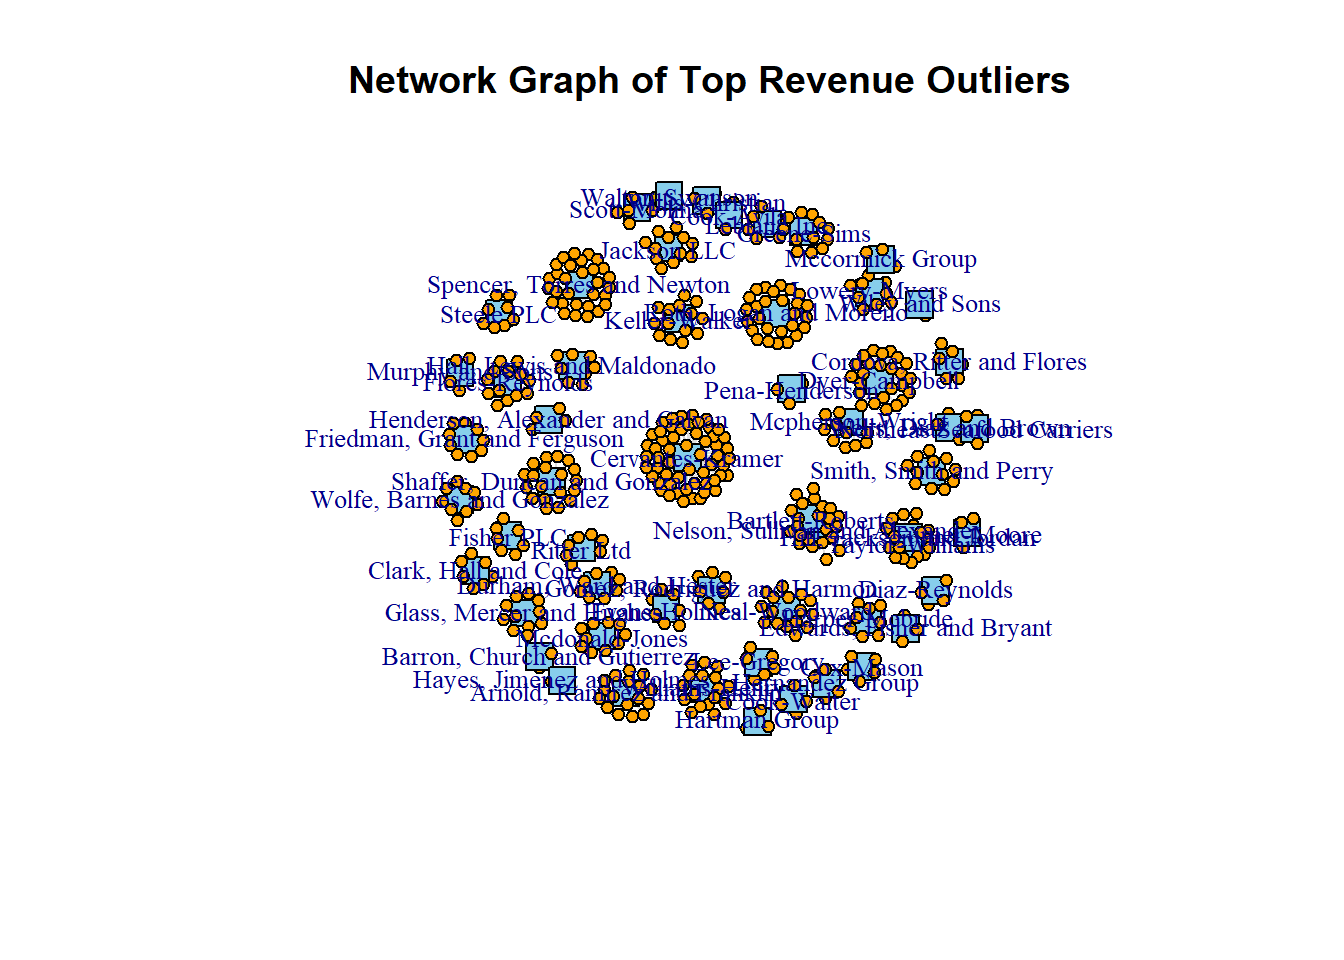
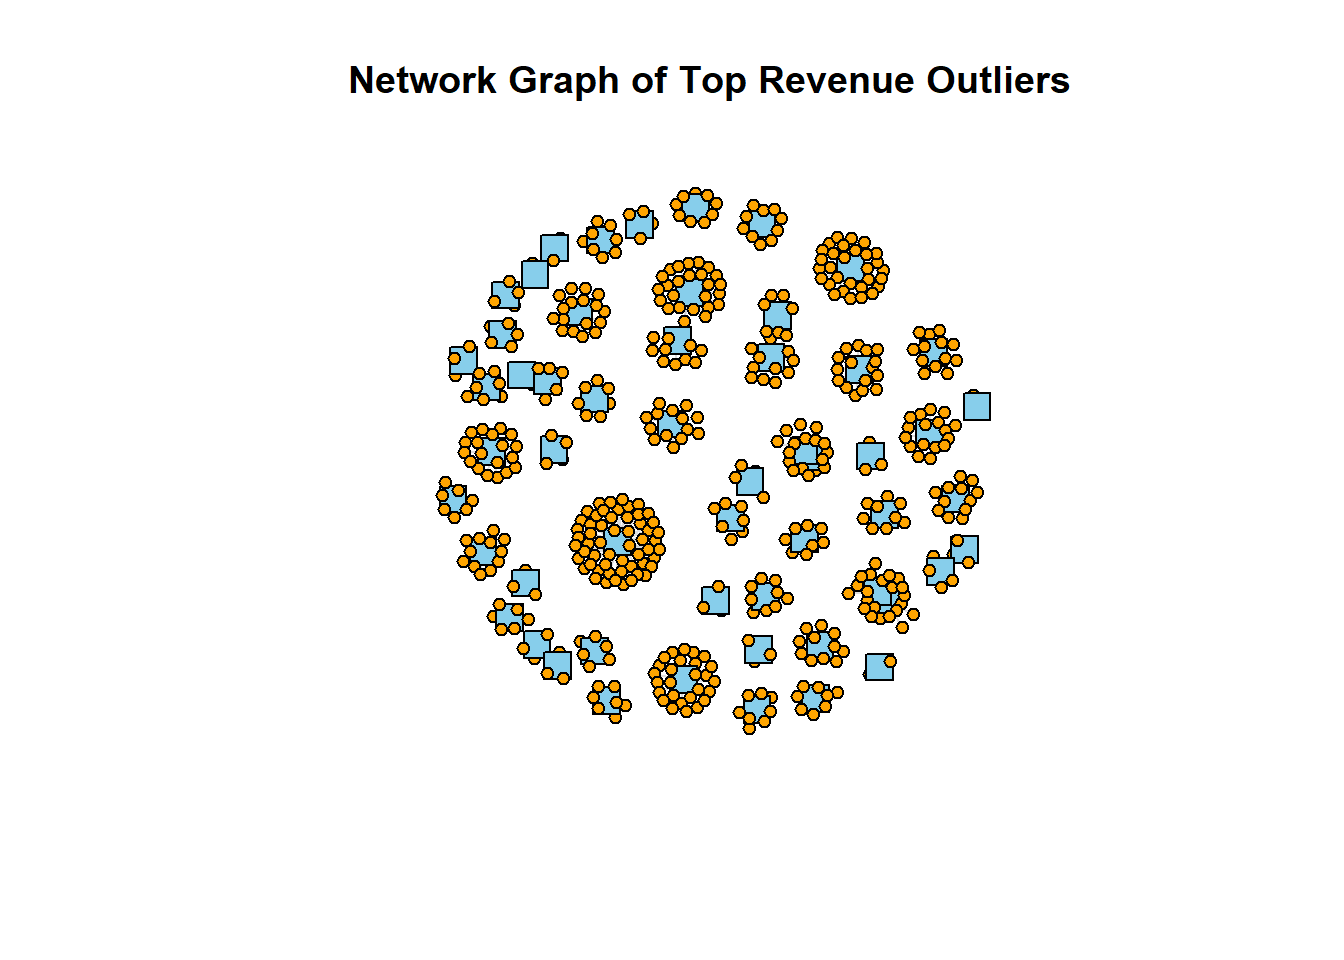
submit

Changed region(s): [[0.2188, 0.1875, 0.8438, 0.7812]]

diff --git a/_site/Take-home_Ex/Take-home_Ex03/Take-home_Ex03.html b/_site/Take-home_Ex/Take-home_Ex03/Take-home_Ex03.html
@@ -221,16 +221,22 @@ pre > code.sourceCode > span > a:first-child::before { text-decoration: underlin
 <div class="cell">
 <div class="sourceCode cell-code" id="cb1"><pre class="sourceCode r code-with-copy"><code class="sourceCode r"><span id="cb1-1"><a href="#cb1-1" aria-hidden="true" tabindex="-1"></a>pacman<span class="sc">::</span><span class="fu">p_load</span>(ggraph,dendextend,tidygraph,jsonlite,dplyr,lubridate,igraph,ggplot2,gridExtra)</span></code><button title="Copy to Clipboard" class="code-copy-button"><i class="bi"></i></button></pre></div>
 </div>
-<p>*<strong># Load JSON data</strong></p>
+<hr>
+<p>Load JSON data</p>
+<hr>
 <div class="cell">
 <div class="sourceCode cell-code" id="cb2"><pre class="sourceCode r code-with-copy"><code class="sourceCode r"><span id="cb2-1"><a href="#cb2-1" aria-hidden="true" tabindex="-1"></a>json_data <span class="ot">&lt;-</span> <span class="fu">fromJSON</span>(<span class="st">'data/MC3/mc3.json'</span>)</span></code><button title="Copy to Clipboard" class="code-copy-button"><i class="bi"></i></button></pre></div>
 </div>
-<p><strong># Extract the nodes and edges</strong></p>
+<hr>
+<p>Extract the nodes and edges</p>
+<hr>
 <div class="cell">
 <div class="sourceCode cell-code" id="cb3"><pre class="sourceCode r code-with-copy"><code class="sourceCode r"><span id="cb3-1"><a href="#cb3-1" aria-hidden="true" tabindex="-1"></a>nodes <span class="ot">&lt;-</span> json_data<span class="sc">$</span>nodes</span>
 <span id="cb3-2"><a href="#cb3-2" aria-hidden="true" tabindex="-1"></a>edges <span class="ot">&lt;-</span> json_data<span class="sc">$</span>links</span></code><button title="Copy to Clipboard" class="code-copy-button"><i class="bi"></i></button></pre></div>
 </div>
-<p><strong># Data Processing</strong></p>
+<hr>
+<p>Data Processing</p>
+<hr>
 <div class="cell">
 <div class="sourceCode cell-code" id="cb4"><pre class="sourceCode r code-with-copy"><code class="sourceCode r"><span id="cb4-1"><a href="#cb4-1" aria-hidden="true" tabindex="-1"></a><span class="co"># Ensure 'id' columns and edge 'source'/'target' columns are character type</span></span>
 <span id="cb4-2"><a href="#cb4-2" aria-hidden="true" tabindex="-1"></a>nodes<span class="sc">$</span>id <span class="ot">&lt;-</span> <span class="fu">as.character</span>(nodes<span class="sc">$</span>id)</span>
@@ -246,6 +252,8 @@ pre > code.sourceCode > span > a:first-child::before { text-decoration: underlin
 <span id="cb4-12"><a href="#cb4-12" aria-hidden="true" tabindex="-1"></a>edges<span class="sc">$</span><span class="st">`</span><span class="at">start_date</span><span class="st">`</span> <span class="ot">&lt;-</span> <span class="fu">as.Date</span>(edges<span class="sc">$</span><span class="st">`</span><span class="at">start_date</span><span class="st">`</span>, <span class="at">format =</span> <span class="st">"%Y-%m-%d"</span>)</span>
 <span id="cb4-13"><a href="#cb4-13" aria-hidden="true" tabindex="-1"></a>edges<span class="sc">$</span><span class="st">`</span><span class="at">end_date</span><span class="st">`</span> <span class="ot">&lt;-</span> <span class="fu">as.Date</span>(edges<span class="sc">$</span><span class="st">`</span><span class="at">end_date</span><span class="st">`</span>, <span class="at">format =</span> <span class="st">"%Y-%m-%d"</span>)</span></code><button title="Copy to Clipboard" class="code-copy-button"><i class="bi"></i></button></pre></div>
 </div>
+<hr>
+<hr>
 <p><strong><em>Problem Statement 1:</em></strong> Identify the network associated with SouthSeafood Express Corp and visualize how this network and competing businesses change as a result of their illegal fishing behavior.</p>
 <p><strong><em>Analysis</em></strong></p>
 <hr>
@@ -255,60 +263,64 @@ pre > code.sourceCode > span > a:first-child::before { text-decoration: underlin
 <p><strong><em>Problem Statement 3:</em></strong> Are there any other suspicious transactions that may be related to illegal fishing?</p>
 <hr>
 <p>Data Processing</p>
-<div class="cell">
-<div class="sourceCode cell-code" id="cb5"><pre class="sourceCode r code-with-copy"><code class="sourceCode r"><span id="cb5-1"><a href="#cb5-1" aria-hidden="true" tabindex="-1"></a><span class="co"># Convert nodes to a data frame for filtering purposes</span></span>
-<span id="cb5-2"><a href="#cb5-2" aria-hidden="true" tabindex="-1"></a>nodes_df <span class="ot">&lt;-</span> <span class="fu">as.data.frame</span>(nodes)</span>
-<span id="cb5-3"><a href="#cb5-3" aria-hidden="true" tabindex="-1"></a></span>
-<span id="cb5-4"><a href="#cb5-4" aria-hidden="true" tabindex="-1"></a><span class="co"># Filter the dataset for companies involved in fishing, sea food, and seafood</span></span>
-<span id="cb5-5"><a href="#cb5-5" aria-hidden="true" tabindex="-1"></a>fishing_companies <span class="ot">&lt;-</span> nodes_df <span class="sc">%&gt;%</span></span>
-<span id="cb5-6"><a href="#cb5-6" aria-hidden="true" tabindex="-1"></a>  <span class="fu">filter</span>(<span class="fu">grepl</span>(<span class="st">"fish|sea food|seafood"</span>, TradeDescription, <span class="at">ignore.case =</span> <span class="cn">TRUE</span>))</span>
-<span id="cb5-7"><a href="#cb5-7" aria-hidden="true" tabindex="-1"></a></span>
-<span id="cb5-8"><a href="#cb5-8" aria-hidden="true" tabindex="-1"></a><span class="co"># Remove rows with missing or non-finite revenue values</span></span>
-<span id="cb5-9"><a href="#cb5-9" aria-hidden="true" tabindex="-1"></a>fishing_companies <span class="ot">&lt;-</span> fishing_companies <span class="sc">%&gt;%</span></span>
-<span id="cb5-10"><a href="#cb5-10" aria-hidden="true" tabindex="-1"></a>  <span class="fu">filter</span>(<span class="sc">!</span><span class="fu">is.na</span>(revenue) <span class="sc">&amp;</span> <span class="fu">is.finite</span>(revenue))</span>
-<span id="cb5-11"><a href="#cb5-11" aria-hidden="true" tabindex="-1"></a></span>
-<span id="cb5-12"><a href="#cb5-12" aria-hidden="true" tabindex="-1"></a><span class="co"># Identify top outliers by revenue (95th percentile)</span></span>
-<span id="cb5-13"><a href="#cb5-13" aria-hidden="true" tabindex="-1"></a>top_outliers <span class="ot">&lt;-</span> fishing_companies <span class="sc">%&gt;%</span></span>
-<span id="cb5-14"><a href="#cb5-14" aria-hidden="true" tabindex="-1"></a>  <span class="fu">filter</span>(revenue <span class="sc">&gt;</span> <span class="fu">quantile</span>(revenue, <span class="fl">0.95</span>, <span class="at">na.rm =</span> <span class="cn">TRUE</span>))</span>
-<span id="cb5-15"><a href="#cb5-15" aria-hidden="true" tabindex="-1"></a></span>
-<span id="cb5-16"><a href="#cb5-16" aria-hidden="true" tabindex="-1"></a><span class="co"># Extract the IDs of the top outliers</span></span>
-<span id="cb5-17"><a href="#cb5-17" aria-hidden="true" tabindex="-1"></a>top_outlier_ids <span class="ot">&lt;-</span> top_outliers<span class="sc">$</span>id</span>
-<span id="cb5-18"><a href="#cb5-18" aria-hidden="true" tabindex="-1"></a></span>
-<span id="cb5-19"><a href="#cb5-19" aria-hidden="true" tabindex="-1"></a><span class="co"># Convert edges to a data frame for filtering purposes</span></span>
-<span id="cb5-20"><a href="#cb5-20" aria-hidden="true" tabindex="-1"></a>edges_df <span class="ot">&lt;-</span> <span class="fu">as.data.frame</span>(edges)</span>
-<span id="cb5-21"><a href="#cb5-21" aria-hidden="true" tabindex="-1"></a></span>
-<span id="cb5-22"><a href="#cb5-22" aria-hidden="true" tabindex="-1"></a><span class="co"># Filter edges to include only those related to top outliers</span></span>
-<span id="cb5-23"><a href="#cb5-23" aria-hidden="true" tabindex="-1"></a>related_edges <span class="ot">&lt;-</span> edges_df <span class="sc">%&gt;%</span></span>
-<span id="cb5-24"><a href="#cb5-24" aria-hidden="true" tabindex="-1"></a>  <span class="fu">filter</span>(source <span class="sc">%in%</span> top_outlier_ids <span class="sc">|</span> target <span class="sc">%in%</span> top_outlier_ids)</span>
-<span id="cb5-25"><a href="#cb5-25" aria-hidden="true" tabindex="-1"></a></span>
-<span id="cb5-26"><a href="#cb5-26" aria-hidden="true" tabindex="-1"></a><span class="co"># Create an edge list for igraph</span></span>
-<span id="cb5-27"><a href="#cb5-27" aria-hidden="true" tabindex="-1"></a>edge_list <span class="ot">&lt;-</span> <span class="fu">as.matrix</span>(related_edges[, <span class="fu">c</span>(<span class="st">"source"</span>, <span class="st">"target"</span>)])</span></code><button title="Copy to Clipboard" class="code-copy-button"><i class="bi"></i></button></pre></div>
-</div>
-<hr>
+<table class="table">
+<colgroup>
+<col style="width: 5%">
+</colgroup>
+<tbody>
+<tr class="odd">
+<td>::: {.cell}</td>
+</tr>
+<tr class="even">
+<td>```{.r .cell-code} # Convert nodes to a data frame for filtering purposes nodes_df &lt;- as.data.frame(nodes)</td>
+</tr>
+<tr class="odd">
+<td># Filter the dataset for companies involved in fishing, sea food, and seafood fishing_companies &lt;- nodes_df %&gt;% filter(grepl(“fish|sea food|seafood”, TradeDescription, ignore.case = TRUE))</td>
+</tr>
+<tr class="even">
+<td># Remove rows with missing or non-finite revenue values fishing_companies &lt;- fishing_companies %&gt;% filter(!is.na(revenue) &amp; is.finite(revenue))</td>
+</tr>
+<tr class="odd">
+<td># Identify top outliers by revenue (95th percentile) top_outliers &lt;- fishing_companies %&gt;% filter(revenue &gt; quantile(revenue, 0.95, na.rm = TRUE))</td>
+</tr>
+<tr class="even">
+<td># Extract the IDs of the top outliers top_outlier_ids &lt;- top_outliers$id</td>
+</tr>
+<tr class="odd">
+<td># Convert edges to a data frame for filtering purposes edges_df &lt;- as.data.frame(edges)</td>
+</tr>
+<tr class="even">
+<td># Filter edges to include only those related to top outliers related_edges &lt;- edges_df %&gt;% filter(source %in% top_outlier_ids | target %in% top_outlier_ids)</td>
+</tr>
+<tr class="odd">
+<td># Create an edge list for igraph edge_list &lt;- as.matrix(related_edges[, c(“source”, “target”)]) ``` :::</td>
+</tr>
+</tbody>
+</table>
 <p>Create graph</p>
 <hr>
 <div class="cell">
-<div class="sourceCode cell-code" id="cb6"><pre class="sourceCode r code-with-copy"><code class="sourceCode r"><span id="cb6-1"><a href="#cb6-1" aria-hidden="true" tabindex="-1"></a><span class="co"># Create graph object</span></span>
-<span id="cb6-2"><a href="#cb6-2" aria-hidden="true" tabindex="-1"></a>g <span class="ot">&lt;-</span> <span class="fu">graph_from_edgelist</span>(edge_list, <span class="at">directed =</span> <span class="cn">FALSE</span>)</span>
-<span id="cb6-3"><a href="#cb6-3" aria-hidden="true" tabindex="-1"></a></span>
-<span id="cb6-4"><a href="#cb6-4" aria-hidden="true" tabindex="-1"></a><span class="co"># Add vertex attributes for revenue and country</span></span>
-<span id="cb6-5"><a href="#cb6-5" aria-hidden="true" tabindex="-1"></a><span class="fu">V</span>(g)<span class="sc">$</span>revenue <span class="ot">&lt;-</span> <span class="fu">ifelse</span>(<span class="fu">V</span>(g)<span class="sc">$</span>name <span class="sc">%in%</span> top_outliers<span class="sc">$</span>id, top_outliers<span class="sc">$</span>revenue[<span class="fu">match</span>(<span class="fu">V</span>(g)<span class="sc">$</span>name, top_outliers<span class="sc">$</span>id)], <span class="cn">NA</span>)</span>
-<span id="cb6-6"><a href="#cb6-6" aria-hidden="true" tabindex="-1"></a><span class="fu">V</span>(g)<span class="sc">$</span>country <span class="ot">&lt;-</span> <span class="fu">ifelse</span>(<span class="fu">V</span>(g)<span class="sc">$</span>name <span class="sc">%in%</span> top_outliers<span class="sc">$</span>id, top_outliers<span class="sc">$</span>country[<span class="fu">match</span>(<span class="fu">V</span>(g)<span class="sc">$</span>name, top_outliers<span class="sc">$</span>id)], <span class="cn">NA</span>)</span>
-<span id="cb6-7"><a href="#cb6-7" aria-hidden="true" tabindex="-1"></a></span>
-<span id="cb6-8"><a href="#cb6-8" aria-hidden="true" tabindex="-1"></a><span class="co"># Set node sizes and colors</span></span>
-<span id="cb6-9"><a href="#cb6-9" aria-hidden="true" tabindex="-1"></a><span class="fu">V</span>(g)<span class="sc">$</span>size <span class="ot">&lt;-</span> <span class="fu">ifelse</span>(<span class="fu">V</span>(g)<span class="sc">$</span>name <span class="sc">%in%</span> top_outliers<span class="sc">$</span>id, <span class="dv">10</span>, <span class="dv">5</span>)  <span class="co"># Increase size for top outliers</span></span>
-<span id="cb6-10"><a href="#cb6-10" aria-hidden="true" tabindex="-1"></a><span class="fu">V</span>(g)<span class="sc">$</span>color <span class="ot">&lt;-</span> <span class="fu">ifelse</span>(<span class="fu">V</span>(g)<span class="sc">$</span>name <span class="sc">%in%</span> top_outliers<span class="sc">$</span>id, <span class="st">"skyblue"</span>, <span class="st">"orange"</span>)  <span class="co"># Different colors for top outliers</span></span>
-<span id="cb6-11"><a href="#cb6-11" aria-hidden="true" tabindex="-1"></a><span class="fu">V</span>(g)<span class="sc">$</span>shape <span class="ot">&lt;-</span> <span class="fu">ifelse</span>(<span class="fu">V</span>(g)<span class="sc">$</span>name <span class="sc">%in%</span> top_outliers<span class="sc">$</span>id, <span class="st">"square"</span>, <span class="st">"circle"</span>)  <span class="co"># Different shapes for top outliers</span></span>
-<span id="cb6-12"><a href="#cb6-12" aria-hidden="true" tabindex="-1"></a><span class="fu">E</span>(g)<span class="sc">$</span>color <span class="ot">&lt;-</span> <span class="fu">adjustcolor</span>(<span class="st">"gray"</span>, <span class="at">alpha.f =</span> <span class="fl">0.5</span>)  <span class="co"># Transparent edges</span></span>
-<span id="cb6-13"><a href="#cb6-13" aria-hidden="true" tabindex="-1"></a></span>
-<span id="cb6-14"><a href="#cb6-14" aria-hidden="true" tabindex="-1"></a></span>
-<span id="cb6-15"><a href="#cb6-15" aria-hidden="true" tabindex="-1"></a></span>
-<span id="cb6-16"><a href="#cb6-16" aria-hidden="true" tabindex="-1"></a><span class="co"># Plot the network graph</span></span>
-<span id="cb6-17"><a href="#cb6-17" aria-hidden="true" tabindex="-1"></a><span class="fu">plot</span>(g, <span class="at">vertex.size =</span> <span class="fu">V</span>(g)<span class="sc">$</span>size, <span class="at">vertex.label.cex =</span> <span class="fu">ifelse</span>(<span class="fu">V</span>(g)<span class="sc">$</span>name <span class="sc">%in%</span> top_outliers<span class="sc">$</span>id, <span class="fl">0.8</span>, <span class="fl">0.6</span>), </span>
-<span id="cb6-18"><a href="#cb6-18" aria-hidden="true" tabindex="-1"></a>     <span class="at">vertex.color =</span> <span class="fu">V</span>(g)<span class="sc">$</span>color, <span class="at">vertex.shape =</span> <span class="fu">V</span>(g)<span class="sc">$</span>shape,</span>
-<span id="cb6-19"><a href="#cb6-19" aria-hidden="true" tabindex="-1"></a>     <span class="at">vertex.label =</span> <span class="fu">ifelse</span>(<span class="fu">V</span>(g)<span class="sc">$</span>name <span class="sc">%in%</span> top_outliers<span class="sc">$</span>id, <span class="fu">V</span>(g)<span class="sc">$</span>name, <span class="cn">NA</span>), </span>
-<span id="cb6-20"><a href="#cb6-20" aria-hidden="true" tabindex="-1"></a>     <span class="at">edge.color =</span> <span class="fu">E</span>(g)<span class="sc">$</span>color, <span class="at">layout =</span> layout_with_fr, </span>
-<span id="cb6-21"><a href="#cb6-21" aria-hidden="true" tabindex="-1"></a>     <span class="at">main =</span> <span class="st">"Network Graph of Top Revenue Outliers"</span>)</span></code><button title="Copy to Clipboard" class="code-copy-button"><i class="bi"></i></button></pre></div>
+<div class="sourceCode cell-code" id="cb5"><pre class="sourceCode r code-with-copy"><code class="sourceCode r"><span id="cb5-1"><a href="#cb5-1" aria-hidden="true" tabindex="-1"></a><span class="co"># Create graph object</span></span>
+<span id="cb5-2"><a href="#cb5-2" aria-hidden="true" tabindex="-1"></a>g <span class="ot">&lt;-</span> <span class="fu">graph_from_edgelist</span>(edge_list, <span class="at">directed =</span> <span class="cn">FALSE</span>)</span>
+<span id="cb5-3"><a href="#cb5-3" aria-hidden="true" tabindex="-1"></a></span>
+<span id="cb5-4"><a href="#cb5-4" aria-hidden="true" tabindex="-1"></a><span class="co"># Add vertex attributes for revenue and country</span></span>
+<span id="cb5-5"><a href="#cb5-5" aria-hidden="true" tabindex="-1"></a><span class="fu">V</span>(g)<span class="sc">$</span>revenue <span class="ot">&lt;-</span> <span class="fu">ifelse</span>(<span class="fu">V</span>(g)<span class="sc">$</span>name <span class="sc">%in%</span> top_outliers<span class="sc">$</span>id, top_outliers<span class="sc">$</span>revenue[<span class="fu">match</span>(<span class="fu">V</span>(g)<span class="sc">$</span>name, top_outliers<span class="sc">$</span>id)], <span class="cn">NA</span>)</span>
+<span id="cb5-6"><a href="#cb5-6" aria-hidden="true" tabindex="-1"></a><span class="fu">V</span>(g)<span class="sc">$</span>country <span class="ot">&lt;-</span> <span class="fu">ifelse</span>(<span class="fu">V</span>(g)<span class="sc">$</span>name <span class="sc">%in%</span> top_outliers<span class="sc">$</span>id, top_outliers<span class="sc">$</span>country[<span class="fu">match</span>(<span class="fu">V</span>(g)<span class="sc">$</span>name, top_outliers<span class="sc">$</span>id)], <span class="cn">NA</span>)</span>
+<span id="cb5-7"><a href="#cb5-7" aria-hidden="true" tabindex="-1"></a></span>
+<span id="cb5-8"><a href="#cb5-8" aria-hidden="true" tabindex="-1"></a><span class="co"># Set node sizes and colors</span></span>
+<span id="cb5-9"><a href="#cb5-9" aria-hidden="true" tabindex="-1"></a><span class="fu">V</span>(g)<span class="sc">$</span>size <span class="ot">&lt;-</span> <span class="fu">ifelse</span>(<span class="fu">V</span>(g)<span class="sc">$</span>name <span class="sc">%in%</span> top_outliers<span class="sc">$</span>id, <span class="dv">10</span>, <span class="dv">5</span>)  <span class="co"># Increase size for top outliers</span></span>
+<span id="cb5-10"><a href="#cb5-10" aria-hidden="true" tabindex="-1"></a><span class="fu">V</span>(g)<span class="sc">$</span>color <span class="ot">&lt;-</span> <span class="fu">ifelse</span>(<span class="fu">V</span>(g)<span class="sc">$</span>name <span class="sc">%in%</span> top_outliers<span class="sc">$</span>id, <span class="st">"skyblue"</span>, <span class="st">"orange"</span>)  <span class="co"># Different colors for top outliers</span></span>
+<span id="cb5-11"><a href="#cb5-11" aria-hidden="true" tabindex="-1"></a><span class="fu">V</span>(g)<span class="sc">$</span>shape <span class="ot">&lt;-</span> <span class="fu">ifelse</span>(<span class="fu">V</span>(g)<span class="sc">$</span>name <span class="sc">%in%</span> top_outliers<span class="sc">$</span>id, <span class="st">"square"</span>, <span class="st">"circle"</span>)  <span class="co"># Different shapes for top outliers</span></span>
+<span id="cb5-12"><a href="#cb5-12" aria-hidden="true" tabindex="-1"></a><span class="fu">E</span>(g)<span class="sc">$</span>color <span class="ot">&lt;-</span> <span class="fu">adjustcolor</span>(<span class="st">"gray"</span>, <span class="at">alpha.f =</span> <span class="fl">0.5</span>)  <span class="co"># Transparent edges</span></span>
+<span id="cb5-13"><a href="#cb5-13" aria-hidden="true" tabindex="-1"></a></span>
+<span id="cb5-14"><a href="#cb5-14" aria-hidden="true" tabindex="-1"></a></span>
+<span id="cb5-15"><a href="#cb5-15" aria-hidden="true" tabindex="-1"></a></span>
+<span id="cb5-16"><a href="#cb5-16" aria-hidden="true" tabindex="-1"></a><span class="co"># Plot the network graph</span></span>
+<span id="cb5-17"><a href="#cb5-17" aria-hidden="true" tabindex="-1"></a><span class="fu">plot</span>(g, <span class="at">vertex.size =</span> <span class="fu">V</span>(g)<span class="sc">$</span>size, <span class="at">vertex.label.cex =</span> <span class="fu">ifelse</span>(<span class="fu">V</span>(g)<span class="sc">$</span>name <span class="sc">%in%</span> top_outliers<span class="sc">$</span>id, <span class="fl">0.8</span>, <span class="fl">0.6</span>), </span>
+<span id="cb5-18"><a href="#cb5-18" aria-hidden="true" tabindex="-1"></a>     <span class="at">vertex.color =</span> <span class="fu">V</span>(g)<span class="sc">$</span>color, <span class="at">vertex.shape =</span> <span class="fu">V</span>(g)<span class="sc">$</span>shape,</span>
+<span id="cb5-19"><a href="#cb5-19" aria-hidden="true" tabindex="-1"></a>     <span class="at">vertex.label =</span> <span class="cn">NA</span>, </span>
+<span id="cb5-20"><a href="#cb5-20" aria-hidden="true" tabindex="-1"></a>     <span class="at">edge.color =</span> <span class="fu">E</span>(g)<span class="sc">$</span>color, <span class="at">layout =</span> layout_with_fr, </span>
+<span id="cb5-21"><a href="#cb5-21" aria-hidden="true" tabindex="-1"></a>     <span class="at">main =</span> <span class="st">"Network Graph of Top Revenue Outliers"</span>)</span></code><button title="Copy to Clipboard" class="code-copy-button"><i class="bi"></i></button></pre></div>
 <div class="cell-output-display">
 <p><img src="Take-home_Ex03_files/figure-html/unnamed-chunk-9-1.png" class="img-fluid" width="672"></p>
 </div>
